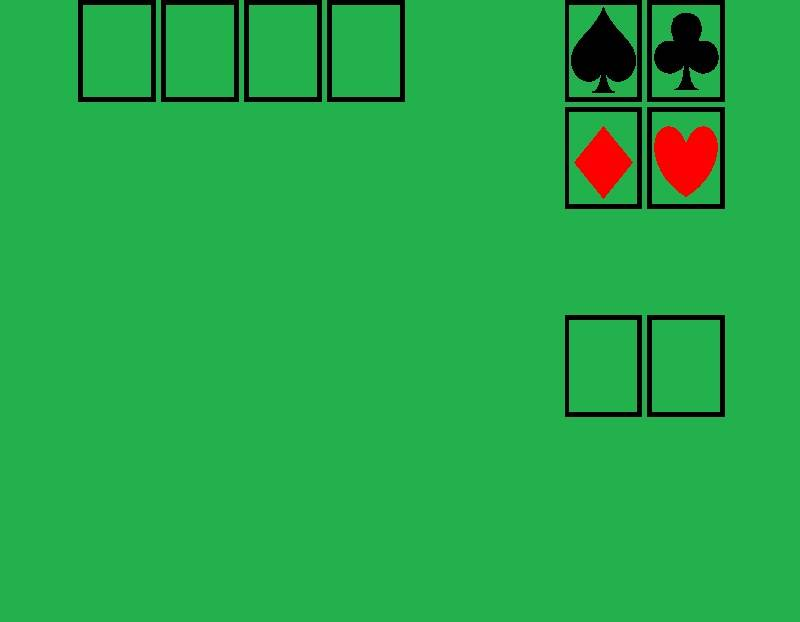
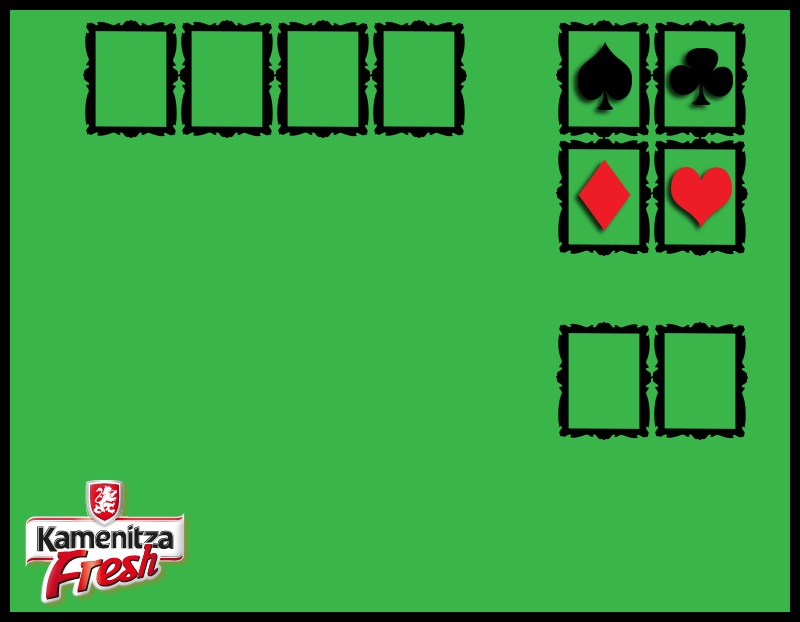
EditedBackground

Changed region(s): [[0.0, 0.0, 1.0, 1.0], [0.6875, 0.4887, 0.9375, 0.7331]]

diff --git a/src/eu/veldsoft/four/row/solitaire/ChangeAppearance.java b/src/eu/veldsoft/four/row/solitaire/ChangeAppearance.java
@@ -48,7 +48,7 @@ public class ChangeAppearance extends JDialog implements ActionListener {
 	 */
 	private static final long serialVersionUID = 1L;
 
-	public static final int NUM_DECKS = 3;
+	public static final int NUM_DECKS = 4;
 	public static final int NUM_BACKGROUNDS = 3;
 
 	public static final int FRS_DECK = 3;
@@ -224,7 +224,12 @@ public class ChangeAppearance extends JDialog implements ActionListener {
 			deckNumber = 3;
 			cardBackLabel.setIcon(new ImageIcon(this.getClass().getResource(
 					"images/cardbacks/cardback" + deckNumber + ".png")));
-		}
+		}else if(e.getSource()==decks[3]) {
+				deckNumber = 4;
+				cardBackLabel.setIcon(new ImageIcon(this.getClass().getResource(
+						"images/cardbacks/cardback" + deckNumber + ".png")));
+			}
+		
 
 		else if (e.getSource() == backgrounds[0]) {
 			backgroundNumber = 1;
